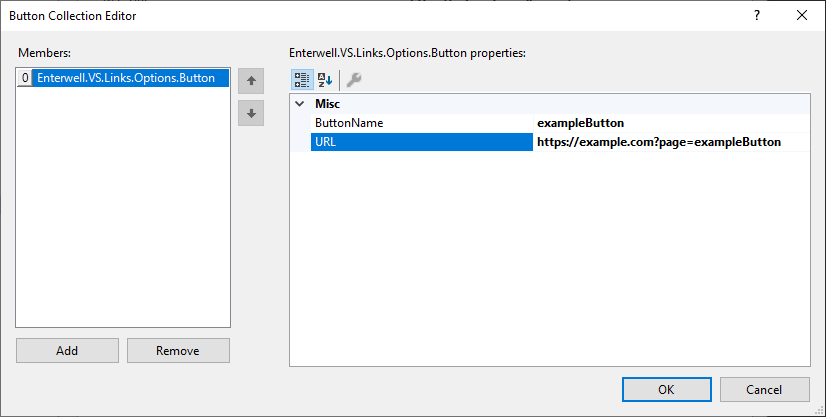
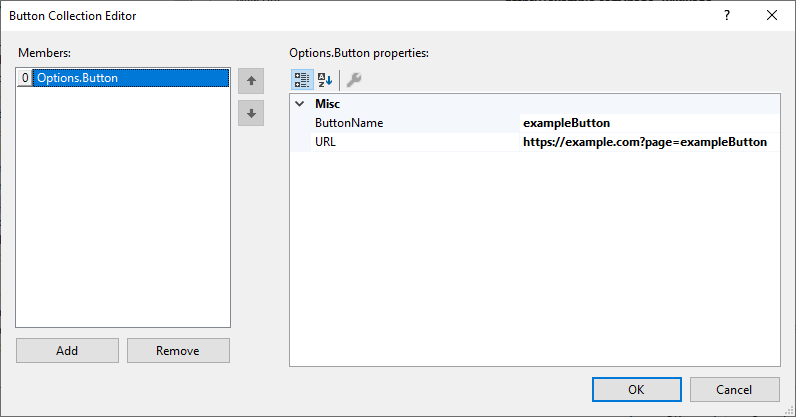
Further cleared the project from references to enterwell

diff --git a/Enterwell.VS.Links/Options/GeneralOptions.cs b/Enterwell.VS.Links/Options/GeneralOptions.cs
@@ -1,5 +1,6 @@
 using System.Collections.Generic;
 using System.ComponentModel;
+using Options;
 
 namespace Enterwell.VS.Links.Options
 {
@@ -11,7 +12,7 @@ namespace Enterwell.VS.Links.Options
         /// <summary>
         /// Property that holds WikiUrl entered through the Options page.
         /// </summary>
-        [Category("Enterwell Links")]
+        [Category(Vsix.Name)]
         [DisplayName("Wiki URL")]
         [Description("Specifies the url for the Wiki page.")]
         public string WikiUrl { get; set; } = "https://example.com?page=wikiPage";
@@ -19,7 +20,7 @@ namespace Enterwell.VS.Links.Options
         /// <summary>
         /// Property that holds DevOpsUrl entered through the Options page.
         /// </summary>
-        [Category("Enterwell Links")]
+        [Category(Vsix.Name)]
         [DisplayName("DevOps URL")]
         [Description("Specifies the url for the DevOps page.")]
         public string DevOpsUrl { get; set; } = "https://dev.azure.com/";
@@ -27,7 +28,7 @@ namespace Enterwell.VS.Links.Options
         /// <summary>
         /// Property that holds ClockifyUrl entered through the Options page.
         /// </summary>
-        [Category("Enterwell Links")]
+        [Category(Vsix.Name)]
         [DisplayName("Clockify URL")]
         [Description("Specifies the url for the Clockify page.")]
         public string ClockifyUrl { get; set; } = "https://clockify.me/tracker";
@@ -35,7 +36,7 @@ namespace Enterwell.VS.Links.Options
         /// <summary>
         /// Property that holds user defined buttons entered through the Options page.
         /// </summary>
-        [Category("Enterwell Links")]
+        [Category(Vsix.Name)]
         [DisplayName("Additional Buttons")]
         [Description("Specifies the additional buttons to be display in the extension.")]
         public List<Button> Buttons { get; set; } = new List<Button>();

diff --git a/Enterwell.VS.Links/source.extension.cs b/Enterwell.VS.Links/source.extension.cs
@@ -11,7 +11,7 @@ namespace Enterwell.VS.Links
         public const string Name = "Links";
         public const string Description = @"Visual Studio extension allows quick access to links of interest.";
         public const string Language = "en-US";
-        public const string Version = "1.0.2";
+        public const string Version = "1.0.3";
         public const string Author = "Enterwell";
         public const string Tags = "enterwell, internal, quick links";
     }

diff --git a/Enterwell.VS.Links/CommandBuilder.cs b/Enterwell.VS.Links/CommandBuilder.cs
@@ -6,7 +6,7 @@ using System.Threading.Tasks;
 using System.Windows.Forms;
 using Enterwell.VS.Links.Options;
 using Microsoft.VisualStudio.Shell;
-using Button = Enterwell.VS.Links.Options.Button;
+using Button = Options.Button;
 using Process = System.Diagnostics.Process;
 
 namespace Enterwell.VS.Links

diff --git a/Enterwell.VS.Links/Options/Button.cs b/Enterwell.VS.Links/Options/Button.cs
@@ -1,6 +1,6 @@
 using System;
 
-namespace Enterwell.VS.Links.Options
+namespace Options
 {
     /// <summary>
     /// Class used only to represent a single button in the options page. Needs to be serializable.

diff --git a/README.md b/README.md
@@ -4,11 +4,13 @@
 `Links` is a VSIX project that contains the [Visual Studio](https://visualstudio.microsoft.com/vs/) Extension which serves as a quick access to websites of interest.
 
 ## Installation
-To be able to install the extension on your own machine, you first need to have [Visual Studio 2019](https://visualstudio.microsoft.com/vs/) or newer installed. Then you need to build it and run the generated `Enterwell.VS.Links.vsix` file in the `bin\(Debug|Release)` folder. 
-
-Installer will pop up showing the extension name asking to which installed Visual Studio product you want to install the extension to.
+You can get the extension either by downloading and installing it manually from [Visual Studio Marketplace](https://marketplace.visualstudio.com/items?itemName=Enterwell.enterwellvslinksvsix)
 
 ![](img/installer.png)
+
+or by searching for it in the Visual Studio Extension Manager
+
+![](img/extensionManager.png)
 
 ## Usage
 Extension is always visible in the standard toolbar at the end in the form of Menu Controller.
@@ -17,9 +19,9 @@ Extension is always visible in the standard toolbar at the end in the form of Me
 
 By default, there are 3 standard working-out-of-the-box buttons that take the user to their respective websites:
 
-+ Enterwell's Wiki
-+ Enterwell's default Azure DevOps page
-+ Clockify used by Enterwell to track hours on different projects
++ Organization's Wiki
++ Organization's default Azure DevOps page
++ Clockify used by an organization to track hours on different projects
 
   ![](img/defaultButtons.png)
 
@@ -29,7 +31,7 @@ It is possible to extend and configure the URLs in the Options page. Go to:
 
 + **Tools -> Options..**
 + In the Options page find the **Extensions** category
-+ Inside of the category, **Enterwell Links** page is placed
++ Inside of the category, **Links** page is placed
 
   ![](img/optionsPage.png)
 
